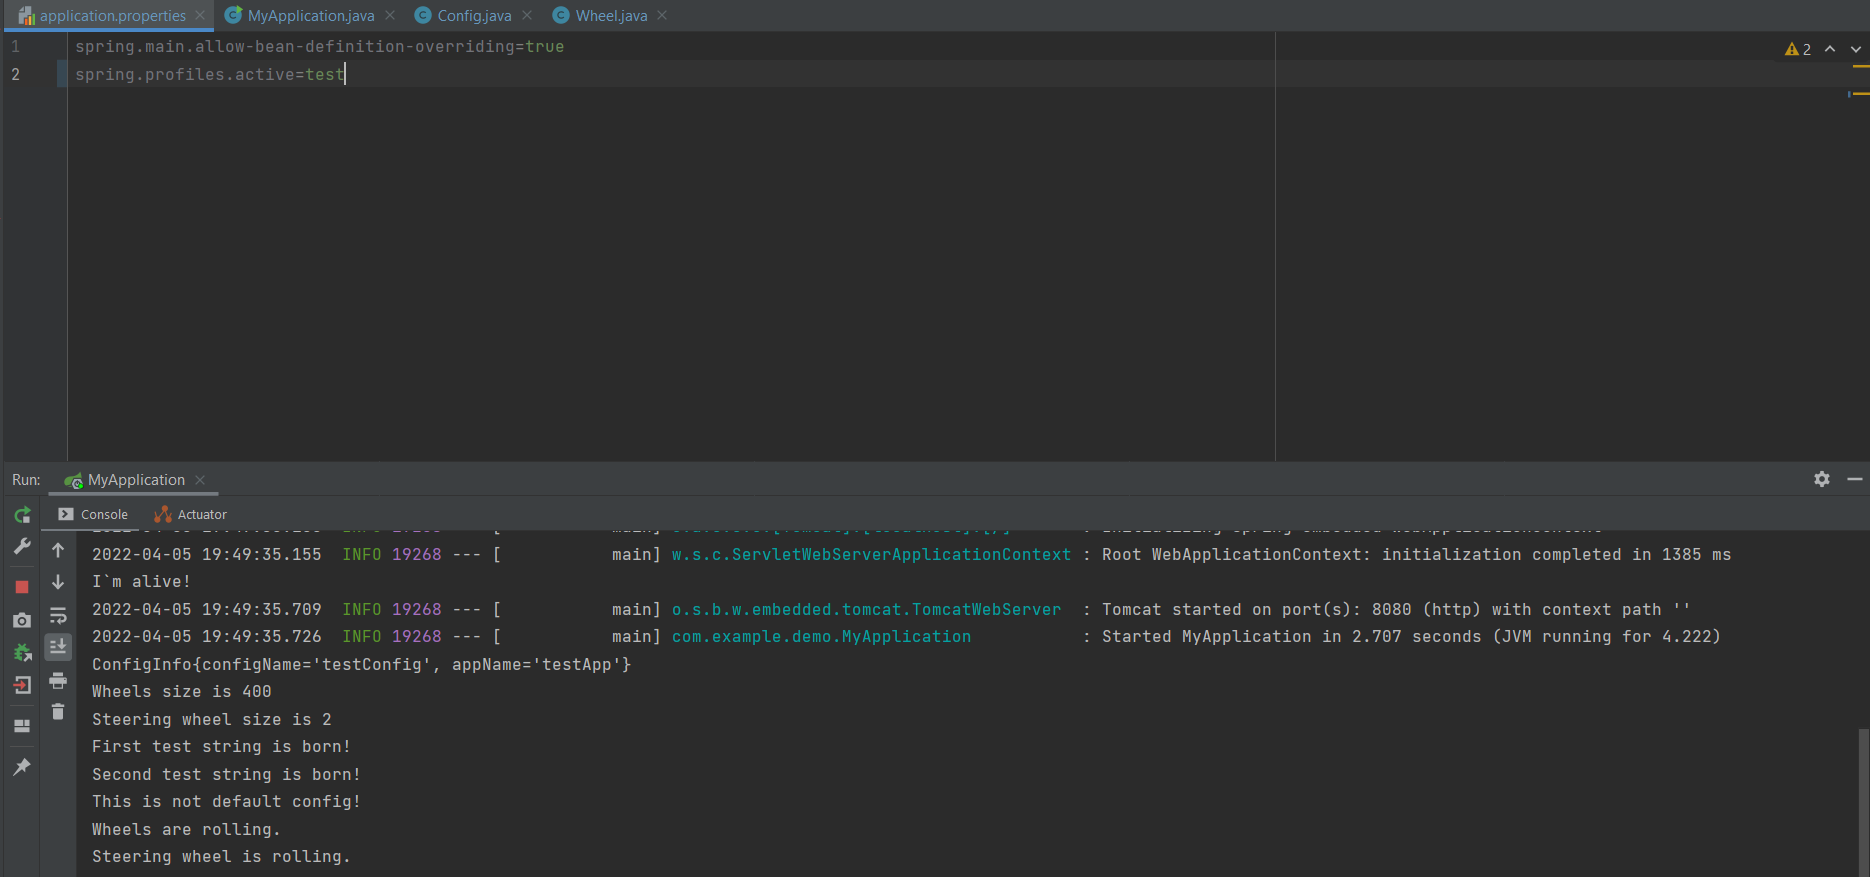
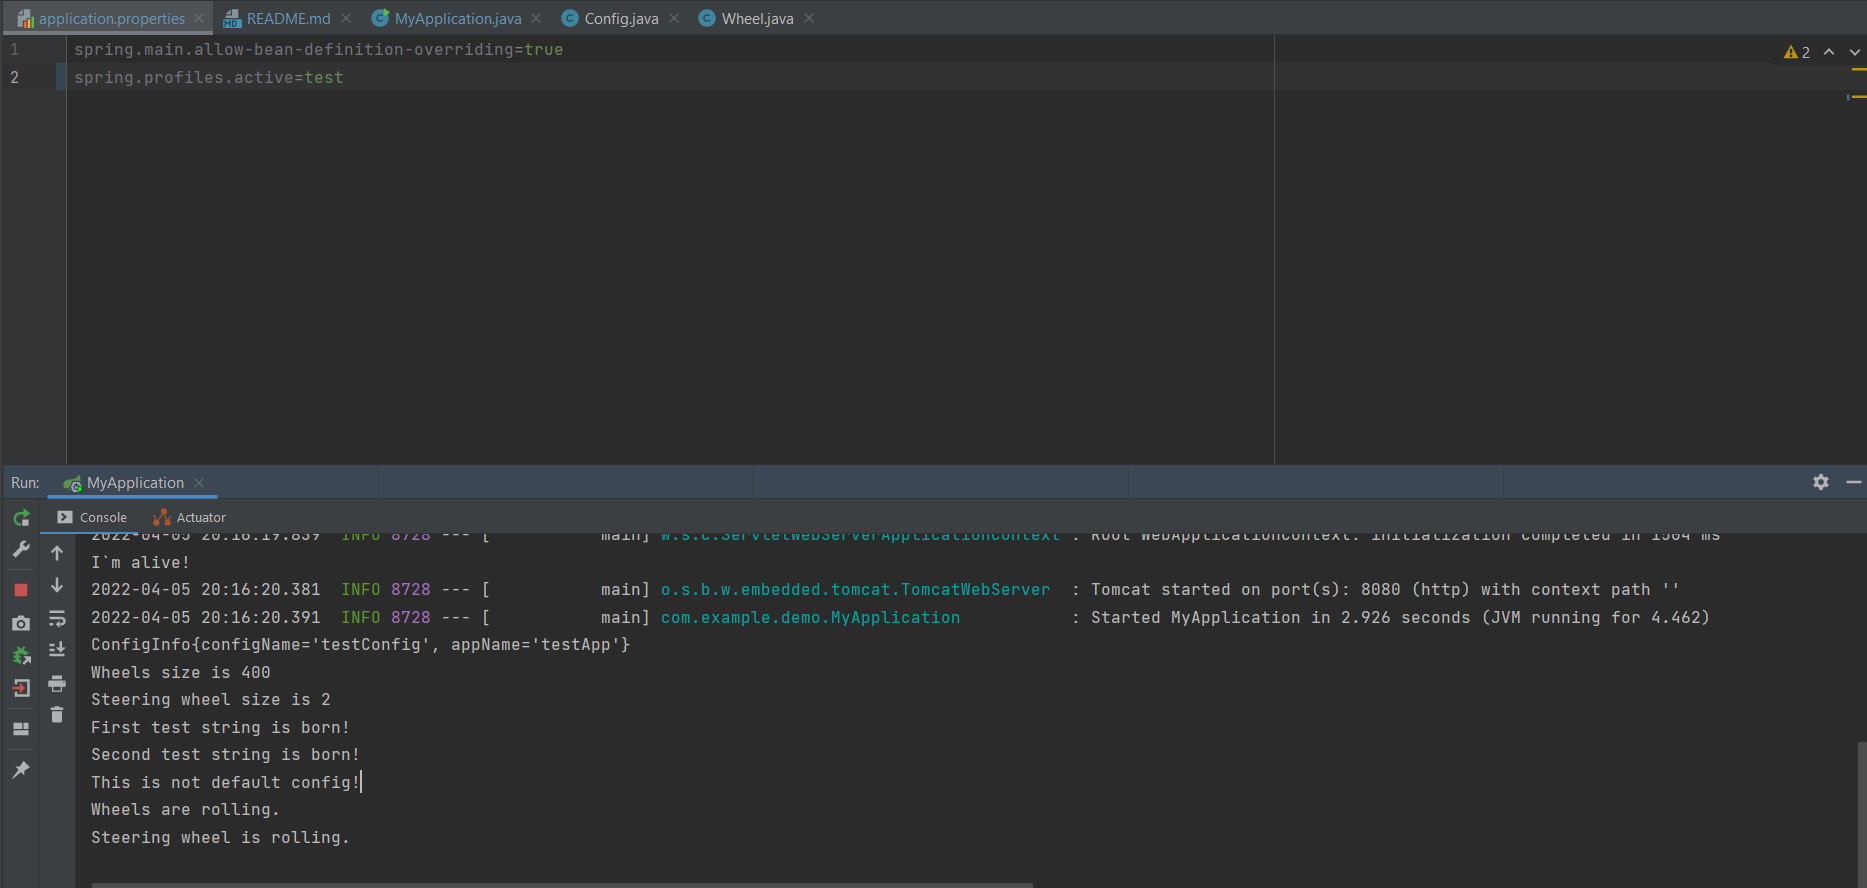
Add try/catch blocks

diff --git a/src/main/java/com/example/demo/MyApplication.java b/src/main/java/com/example/demo/MyApplication.java
@@ -2,12 +2,12 @@ package com.example.demo;
 
 import com.example.demo.config.ConfigInfo;
 import com.example.demo.vehicles.Car;
+import org.springframework.beans.factory.NoSuchBeanDefinitionException;
 import org.springframework.boot.SpringApplication;
 import org.springframework.boot.autoconfigure.SpringBootApplication;
 
 @SpringBootApplication
 public class MyApplication{
-
     public static void main(String[] args) {
         var applicationContext = SpringApplication.run(MyApplication.class, args);
         Car myCar = applicationContext.getBean(Car.class);
@@ -15,7 +15,19 @@ public class MyApplication{
         System.out.println(config);
         System.out.printf("Wheels size is %s\n", myCar.getWheelsSize());
         System.out.printf("Steering wheel size is %s\n", myCar.getSteeringWheelSize());
-        System.out.println(applicationContext.getBean("isNotDefault"));
         myCar.work();
+
+        try {
+            System.out.println(applicationContext.getBean("testString"));
+            System.out.println(applicationContext.getBean("secondTestString"));
+        } catch (NoSuchBeanDefinitionException e) {
+            System.out.println("Test Bean not found!");
+        }
+
+        try {
+            System.out.println(applicationContext.getBean("isNotDefault"));;
+        } catch (NoSuchBeanDefinitionException e) {
+            System.out.println("This is default config.");
+        }
     }
 }

diff --git a/README.md b/README.md
@@ -9,8 +9,9 @@
 * 2.3) другой, если существует первый бин,
 * 2.3) третий, если в конфиге с не “default” (тут в идеале со скриншотом)
 
-##При !default конфиге (также видно вывод трех зависимых друг от друга бинов из 2 части задания)
-![img.png](img.png)
-##При default конфиге
+##!default config
 ![img_1.png](img_1.png)
-Приложение упало, т.к. бин isNotDefault не был создан.
+##default config
+![img_2.png](img_2.png)
+##test config
+![img.png](img.png)
